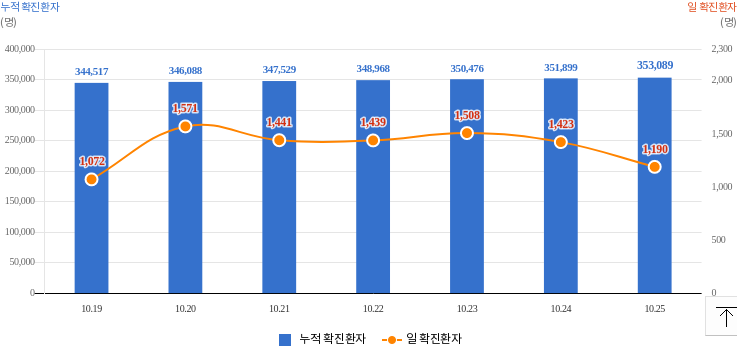
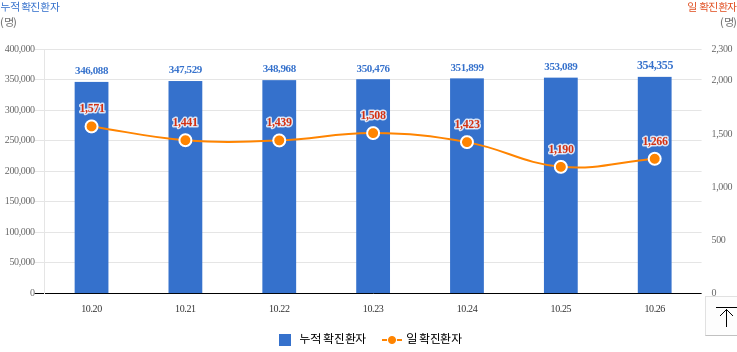
Run crawler and update current data

diff --git a/data.js b/data.js
@@ -7,7 +7,7 @@ var 검사중 = '1,739';
 var 검사결과 = '484,808';
 var 자가격리자 = '222';
 var 거리두기단계 = '사회적 거리두기  3단계 시행 : 2021. 10. 18.(월) 0시 ~ 10. 31.(일) 24시';
-var 국내발생 = '1,167';
-var 해외발생 = '23';
-var 합계 = '1190';
+var 국내발생 = '1,246';
+var 해외발생 = '20';
+var 합계 = '1266';
 var data = [];
